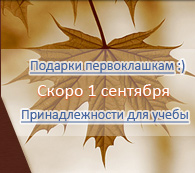
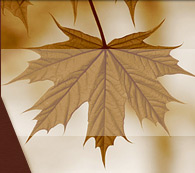
scrollPlane

Changed region(s): [[0.1231, 0.3179, 0.9538, 0.578], [0.0923, 0.6069, 0.9846, 0.7225], [0.1846, 0.4913, 0.4308, 0.578]]

diff --git a/layout.css b/layout.css
@@ -367,8 +367,10 @@ body {
 .page-header-categories {
 	position:relative;
 	min-height:34px;
-	-moz-border-radius:3px;
-	border-radius:3px;
+	-moz-border-radius-topleft: 3px;
+	-moz-border-radius-topright: 3px;
+	border-top-left-radius: 3px;
+	border-top-right-radius: 3px;
 	box-shadow:0 -2px 4px #D1C6A2;
 	padding-top:20px;
 	padding-bottom: 30px;
@@ -468,6 +470,9 @@ body {
 	padding: 0 0 10px 0;
 	z-index: 999;
 	background: rgba(255,255,255,.9);
+	border:1px solid #F3F0E1;
+	border-top:0;
+	box-shadow: 0 2px 3px #ECEADD
 }
 
 .categories-list .cl-item:hover:before, .categories-list .cl-item.active:before {
@@ -505,17 +510,18 @@ body {
 }
 
 .submenu .submenu-wrapper td {
-	padding: 10px 20px 5px;
+	padding: 10px 0 5px;
 	background: 0;
 	vertical-align: top;
 }
 
 .submenu .submenu-wrapper td:first-child {
-	padding-right: 30px;
+	padding-right: 5px;
 }
 
 .submenu-list {
-	margin-left: 15px;
+	margin-left: 25px;
+	margin-right:20px;
 	margin-bottom: 2ex;
 	white-space: nowrap;
 }
@@ -536,7 +542,13 @@ body {
 }
 
 .submenu-title {
-	margin-bottom: .5ex;
+	margin-bottom: 1ex;
+}
+
+.submenu-title-bg {
+	background:#F6F3E3;
+	line-height:1.6;
+	padding:0 0 0 20px;
 }
 
 .submenu-list .star {
@@ -605,10 +617,13 @@ body {
 	position:fixed;
 	top:200px;
 	right:0;
-	padding: 3px 3px 3px 3px;
+	/*width:60px;*/
+	padding: 3px 0 47px 2px;
 	border: 1px solid #E18C6D;
-	border-bottom: 0;
+
+	/*border-bottom: 0;*/
 	border-right: 0;
+	white-space:nowrap;
 }
 
 .page-floating-cart a {
@@ -1110,13 +1125,11 @@ __________________________________*/
 .track-item {
 	position:relative;
 	float:left;
-	width:350px;
-	/*padding-right: 20px;*/
-	/*padding-left: 20px;*/
-	/*padding-right: 20px;*/
+	width:331px;
+	padding-bottom:2px;
 	margin-right: 40px;
 	list-style:none;
-	border-bottom:1px solid #CFC7C7;
+	border-bottom:1px solid  #E5E2E2;
 }
 
 .track-item:after {
@@ -1140,11 +1153,10 @@ __________________________________*/
 .track-item:before {
 	position:absolute;
 	left:0;
-	bottom: 0;
+	bottom: 0px;
 	content:'';
 	width:100%;
-	/*border-bottom: 1px solid #E6E4E4;*/
-	/*border-bottom: 1px solid red;*/
+	border-bottom: 1px solid #CFC5C5;
 	z-index: 10;
 }
 
@@ -1185,7 +1197,7 @@ __________________________________*/
 
 .track-item .actions {
 	float:left;
-	width:139px;
+	width:120px;
 	padding-left:10px;
 }
 
@@ -1193,7 +1205,7 @@ __________________________________*/
 __________________________________*/
 .availability {
 	position:absolute;
-	right:34px;
+	right:5px;
 	padding:0 10px;
 	height:12px;
 	line-height:12px;
@@ -1208,6 +1220,10 @@ __________________________________*/
 .availability.toorder {
 	border:1px solid #EDC5C5;
 	background:#F5E7E7;
+}
+
+.track-item-title {
+	margin: 0 15px 5px 0;
 }
 
 .track-item .price {
@@ -1226,6 +1242,16 @@ __________________________________*/
 	border-bottom-right-radius: 7px;
 	background:url("img/track_price_bg.png") repeat-y;
 	/*box-shadow: 0 3px 5px #C4C3C4;*/
+}
+
+.track-item .price:after {
+	position:absolute;
+	width:116px;
+	height:9px;
+	bottom:-9px;
+	left:5px;
+	content:'';
+	background:url("img/price_shadow.png");
 }
 
 .track-item .price p {
@@ -1295,7 +1321,7 @@ __________________________________*/
 	margin-top:26px;
 }
 .features input {
-	margin-right:10px;
+	margin-right:3px;
 	margin-bottom:6px;
 }
 
@@ -1437,9 +1463,18 @@ __________________________________*/
 }
 
 .footer-promo {
+	background:url("img/footer_promo.jpg");
 	position: absolute;
 	right: 0;
 	top: 0;
+	width:195px;
+	height:113px;
+	padding:60px 0 0 0;
+	text-align:center;
+}
+
+.footer-promo p {
+	margin-bottom:0;
 }
 
 .sub-footer {

diff --git a/index.html b/index.html
@@ -145,7 +145,8 @@
 									<!-- Левая колонка -->
 									<td>
 										<ul class="categories-submenu">
-											<li class="submenu-title">Зажигалки
+											<li class="submenu-title">
+												<div class="submenu-title-bg">Зажигалки</div>
 												<ul class="submenu-list">
 													<li><a href="#">Dupont</a></li>
 													<li><a href="#">Deipolo</a></li>
@@ -157,7 +158,8 @@
 										</ul>
 
 										<ul class="categories-submenu cleared">
-											<li class="submenu-title">Пепельницы
+											<li class="submenu-title">
+												<div class="submenu-title-bg">Пепельницы</div>
 												<ul class="submenu-list">
 													<li><a href="#">Dalvery</a></li>
 													<li><a href="#">Dickhead & Rezbitto</a></li>
@@ -168,7 +170,8 @@
 									<!-- Правая колонка -->
 										<td>
 										<ul class="categories-submenu">
-											<li class="submenu-title">Хьюмидоры
+											<li class="submenu-title">
+												<div class="submenu-title-bg">Хьюмидоры</div>
 												<ul class="submenu-list">
 													<li><a href="#">Dupont</a></li>
 													<li><a href="#">Deipolo <i class="star">*</i></a></li>
@@ -178,7 +181,8 @@
 										</ul>
 
 										<ul class="categories-submenu">
-											<li class="submenu-title">Гильотины
+											<li class="submenu-title">
+												<div class="submenu-title-bg">Гильотины</div>
 												<ul class="submenu-list">
 													<li><a href="#">Dupont</a></li>
 													<li><a href="#">Deipolo</a></li>
@@ -211,7 +215,7 @@
 	<!-- FLOATING CART -->
 	<div class="page-floating-cart">
 		<a href="">
-			<p class="amount">32 шт.</p>
+			<p class="amount">32шт.</p>
 			<div class="floating-cart-figure"></div>
 		</a>
 	</div>
@@ -702,7 +706,9 @@ As you might know, HTML5 introduced many exciting features for Web developers. O
 			</div><!--//page-footer-categories-->
 
 			<div class="footer-promo">
-				<img src="img/footer_promo.jpg" width="195" height="173" alt="" />
+				<p class="highlight-blue"><a href="">Подарки первоклашкам :)</a></p>
+				<p class="highlight-red">Скоро 1 сентября</p>
+				<p class="highlight-blue"><a href="">Принадлежности для учебы</a></p>
 			</div>
 		</div>
 

diff --git a/typography.css b/typography.css
@@ -151,7 +151,7 @@ __________________________________*/
 
 .page-floating-cart .amount {
 	color: #ce3106;
-	font-size: 14px;
+	font-size: 13px;
 }
 
 /* submenu
@@ -166,6 +166,8 @@ __________________________________*/
 }
 
 .submenu a {
+	display:inline-block;
+	padding:0 5px;
 	color: #8C645A;
 	font-weight: normal;
 	text-decoration: none;
@@ -173,6 +175,7 @@ __________________________________*/
 
 .submenu a:hover {
 	color: #DD441C;
+	background:#FEFEFE;
 }
 
 .submenu .submenu-addon-link {
@@ -258,7 +261,6 @@ __________________________________*/
 __________________________________*/
 .track-item-title {
 	font-size:16px;
-	margin: 0 15px 10px 0;
 	line-height:1.3;
 	font-family: Calibri, Arial, Helvetica, sans-serif;
 }
@@ -398,6 +400,17 @@ __________________________________*/
 
 .footer-categories-list a:hover {
 	text-decoration:underline;
+}
+
+.highlight-blue a {
+	color:#45659f;
+	text-shadow: 1px 1px 1px #E7DED0, -1px 0 1px #E7DED0, -1px -1px 1px #E7DED0, -1px 1px 1px #E7DED0, 1px -1px 1px #E7DED0;
+}
+
+.highlight-red {
+	color:#fff;
+	font-size:18px;
+	text-shadow:0 1px 2px #983E17;
 }
 
 /*  =sub-footer
